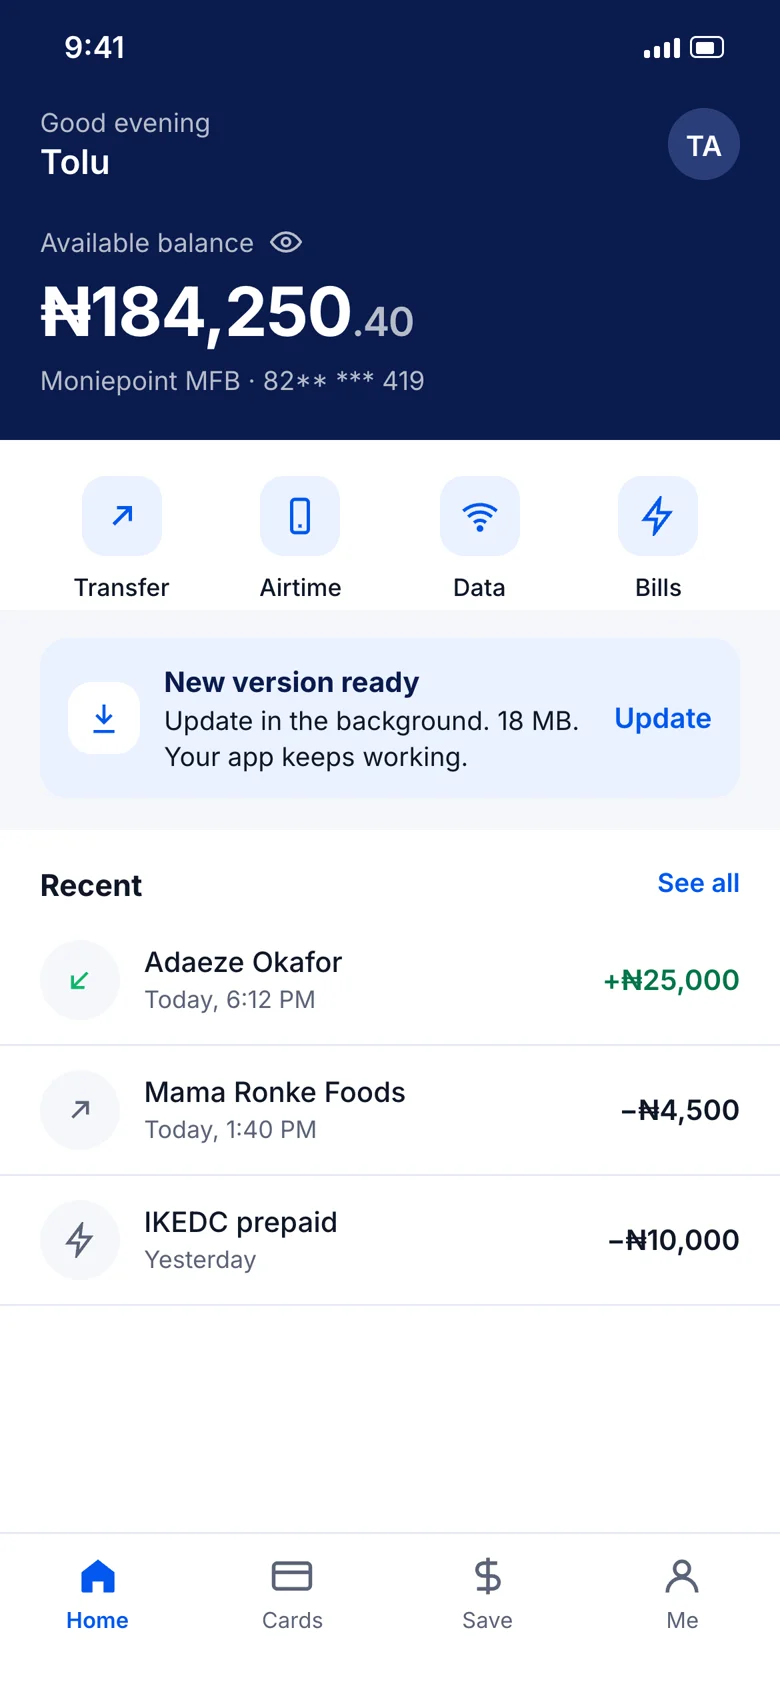
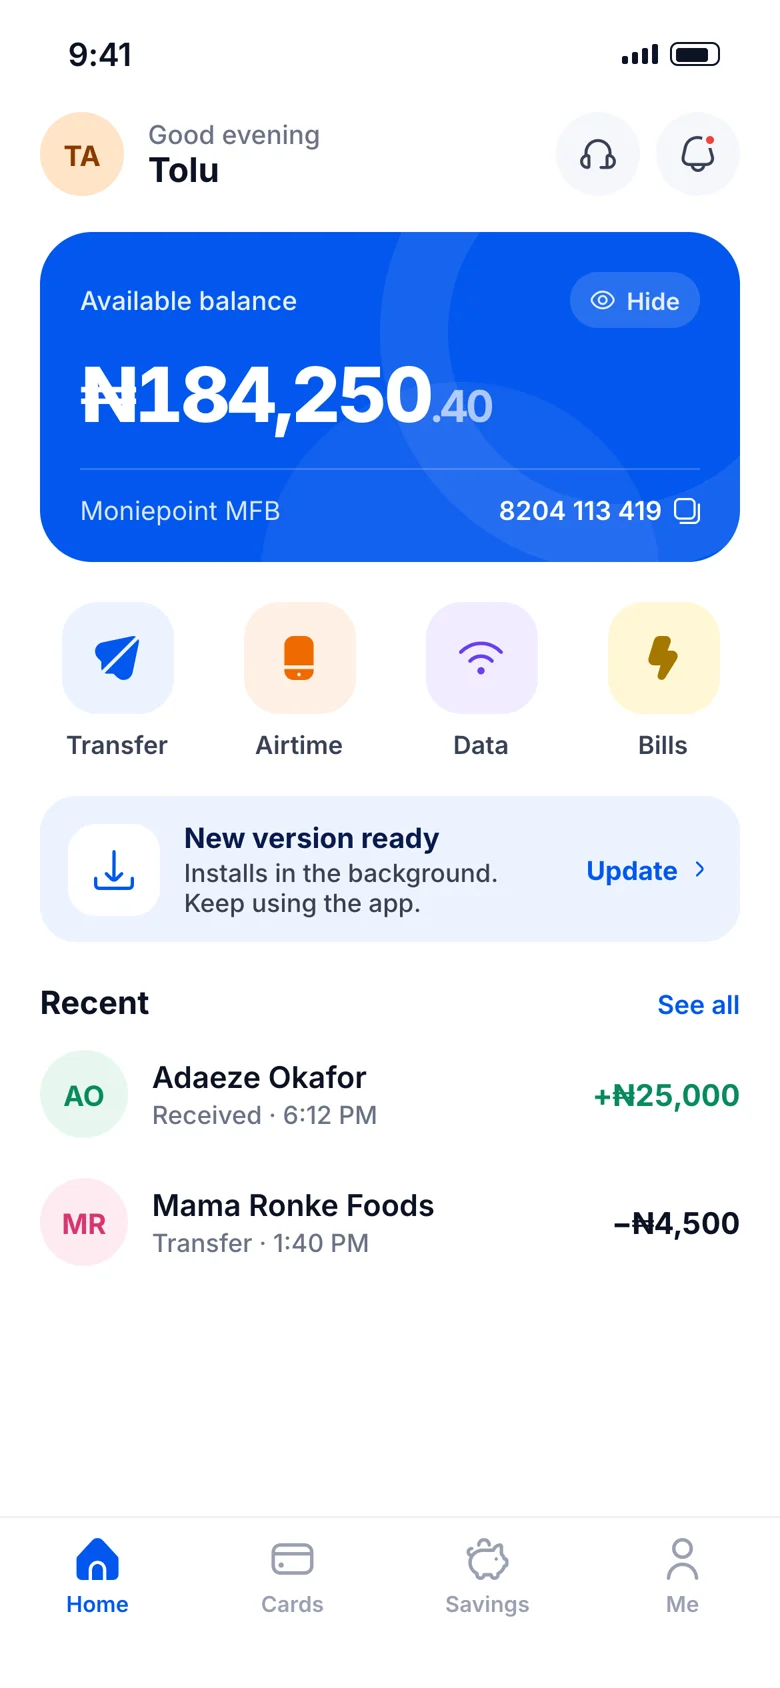
Moniepoint screens v3: Mobbin-referenced redesign, role-based colour, Uicons, references section

diff --git a/project-8.html b/project-8.html
@@ -174,7 +174,7 @@
             <figcaption>
               <h3>Approve transfers with a fingerprint</h3>
               <p><strong>What people said:</strong> biometrics work for login but not for transfers, so people type their PIN in public. The top review on this has 524 helpful votes, and the complaint is still coming in 2026.</p>
-              <p><strong>The fix:</strong> fingerprint as the default, PIN one tap away. The amount above which a PIN is still needed is the risk team's call; ₦100,000 is a placeholder.</p>
+              <p><strong>The fix:</strong> fingerprint as the default, PIN one tap away. Very large transfers may still need a PIN; where that limit sits is the risk team's call.</p>
             </figcaption>
           </figure>
           <figure class="mp-win">
@@ -186,6 +186,22 @@
             </figcaption>
           </figure>
         </div>
+      </div>
+    </section>
+
+    <section class="cs-section">
+      <div class="container">
+        <span class="cs-section__label">References</span>
+        <h2 class="cs-section__title">What I studied,<br /><em>and what I borrowed.</em></h2>
+        <p class="cs-body">Before designing, I looked at how other money and identity apps handle the same moments, using Mobbin.</p>
+        <ul class="cs-col__list qr-list">
+          <li><strong>Face checks:</strong> <a href="https://mobbin.com/screens/cf99a035-93e4-405a-b110-1e7ed1d205b9" target="_blank" rel="noopener">Wise</a> fills a ring around the oval and floats one instruction above it; <a href="https://mobbin.com/screens/ed814783-bd75-45a5-a516-6d63412df5dc" target="_blank" rel="noopener">Lovi</a> shows a light-level pill; <a href="https://mobbin.com/screens/c895a2bc-8a1c-4064-961b-604669bead68" target="_blank" rel="noopener">Noom</a> rates lighting. I combined all three so people know what to fix before the check fails.</li>
+          <li><strong>Lockouts:</strong> <a href="https://mobbin.com/screens/8a4dec35-963f-4f85-8b78-a62291430131" target="_blank" rel="noopener">Up</a> turns the wait into a flip-clock countdown and <a href="https://mobbin.com/screens/893a9846-5bae-4cc0-bc2c-76a9fff210f1" target="_blank" rel="noopener">Vipps</a> says "it happens to the best of us". I kept the countdown and the tone, and added a way to skip the wait.</li>
+          <li><strong>Updates:</strong> <a href="https://mobbin.com/screens/b26da1cf-e081-46ab-80d0-b9d63a89d5e2" target="_blank" rel="noopener">Rivian</a> lists what stops working during an install. I flipped it to lead with what still works, because for a bank that's the worry.</li>
+          <li><strong>Confirming payments:</strong> <a href="https://mobbin.com/screens/465186f4-ac1f-4781-9c99-a4926edaaafc" target="_blank" rel="noopener">Cash App</a> states the payment as one big sentence and <a href="https://mobbin.com/screens/2c3a0623-cee2-425e-90e7-20883f0bfe6a" target="_blank" rel="noopener">Careem</a> says the payment is protected by biometrics right above the button.</li>
+          <li><strong>Home and receipts:</strong> <a href="https://mobbin.com/screens/c4c4ed50-dda0-4bb5-94fe-25fbdb685a45" target="_blank" rel="noopener">N26</a> blurs a hidden balance instead of replacing it with dots, and <a href="https://mobbin.com/screens/8a6663ca-f144-4f37-83a4-b2ae0cca8b8c" target="_blank" rel="noopener">Careem</a> gives receipts a clear status and a "send again" action.</li>
+        </ul>
+        <p class="cs-body" style="font-size:13px;margin-top:24px">Icons: <a href="https://www.flaticon.com/uicons" target="_blank" rel="noopener">Uicons by Flaticon</a>.</p>
       </div>
     </section>
 
